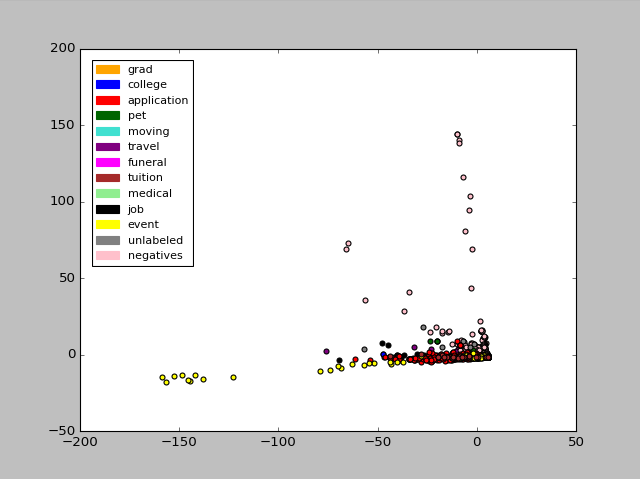
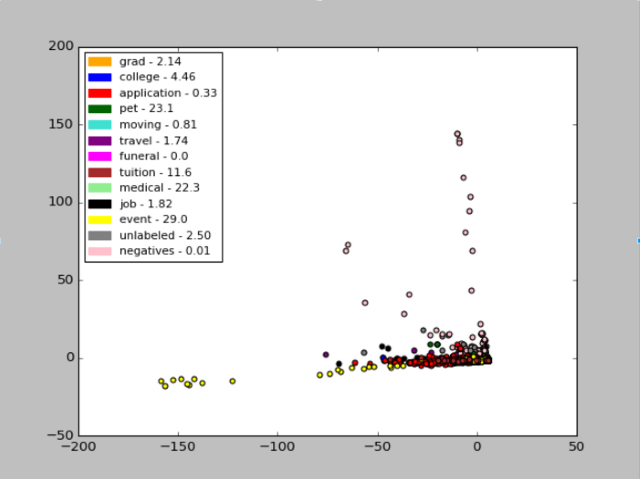
updated clustering stuff

diff --git a/models/pca_plot.py b/models/pca_plot.py
@@ -1,4 +1,4 @@
-from sklearn.feature_extraction.text import TfidfVectorizer
+from sklearn.feature_extraction.text import CountVectorizer, TfidfVectorizer
 from sklearn.decomposition import PCA
 
 import matplotlib.pyplot as plt
@@ -24,9 +24,13 @@ if __name__ == '__main__':
                 emails_array.append(record['Text'])
                 label_array.append(labels.index(collection))
 
-    # PLUG-IN FEATURIZAION HERE
-    # apply tf-idf to data
-    vectorizer = TfidfVectorizer()
+# BagOfWords, TermFrequency-InverseDocumentFrequency
+vectorizers = [CountVectorizer(), TfidfVectorizer()]
+locs = [2, 4]
+
+for j in range(len(vectorizers)):
+    vectorizer = vectorizers[j]    
+    # featurize emails
     X = vectorizer.fit_transform(emails_array)
     X = X.toarray()
  
@@ -41,6 +45,6 @@ if __name__ == '__main__':
 
     # legend
     patches = [mpatches.Patch(color=colors[i], label=labels[i]) for i in range(len(labels))]
-    plt.legend(handles=patches, loc=4, fontsize=10)
+    plt.legend(handles=patches, loc=locs[j], fontsize=10)
 
     plt.show()

diff --git a/models/kmeans.py b/models/kmeans.py
@@ -19,11 +19,11 @@ for collection in db.collection_names():
             label_array.append(label_index)
 
 # BagOfWords, TermFrequency-InverseDocumentFrequency
-vectorizors = [CountVectorizer(), TfidfVectorizer()]
+vectorizers = [CountVectorizer(), TfidfVectorizer()]
 
-for vectorizor in vectorizors:    
+for vectorizer in vectorizers:    
     # featurize emails
-    data = vectorizor.fit_transform(emails_array).toarray()
+    data = vectorizer.fit_transform(emails_array).toarray()
 
     # apply kmeans to emails vectors
     kmeans = KMeans(n_clusters=2, random_state=0).fit(data)

diff --git a/models/kmeans_pca.py b/models/kmeans_pca.py
@@ -21,11 +21,11 @@ for collection in db.collection_names():
             label_array.append(label_index)
 
 # BagOfWords, TermFrequency-InverseDocumentFrequency
-vectorizors = [CountVectorizer(), TfidfVectorizer()]
+vectorizers = [CountVectorizer(), TfidfVectorizer()]
 
-for vectorizor in vectorizors:    
+for vectorizer in vectorizers:    
     # featurize emails
-    data = vectorizor.fit_transform(emails_array).toarray()
+    data = vectorizer.fit_transform(emails_array).toarray()
 
     # apply PCA to vectors
     data = PCA(n_components=2).fit_transform(data)
